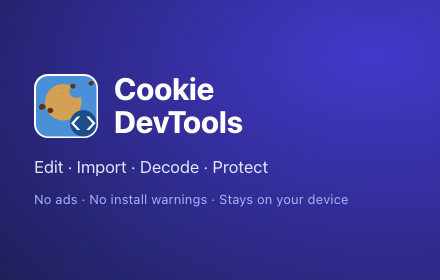
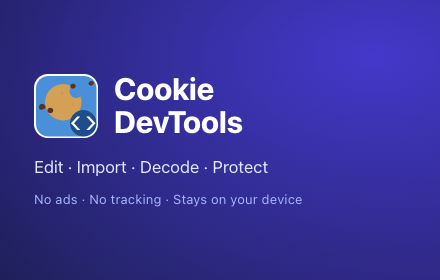
fix: truthful install-warning claims on the listing, README and promo tiles
Chrome shows "Read and change all your data on all websites" for this extension
(measured with chrome.management.getPermissionWarningsByManifest in Chrome for
Testing 151). The listing, README and promo tiles said there was no install warning,
because the earlier measurement read developerPrivate's simplePermissions, which
omits host-permission warnings.

- Copy says what Chrome shows and why a cookie editor needs host access
- Promo tiles regenerated with store/tools
- check-manifest.mjs restated as an allowlist guard; also checks optional
  permissions and forbids content_scripts
- wxt.config.ts records the live no-tabs verification and the measured warnings
- CLAUDE.md records the measurement rule

Changed region(s): [[0.2364, 0.6857, 0.7977, 0.7429]]

diff --git a/wxt.config.ts b/wxt.config.ts
@@ -5,9 +5,9 @@ export default defineConfig({
     name: '__MSG_appName__',
     description: '__MSG_appDescription__',
     default_locale: 'en',
-    // `tabs` deliberately NOT requested (removed 2026-08-26). The only tabs API this
-    // extension calls is browser.tabs.query({active:true,currentWindow:true}) in
-    // entrypoints/popup/main.ts, and it reads exactly one field off the result: tab.url.
+    // `tabs` deliberately NOT requested (removed 2026-08-26). The surfaces call
+    // browser.tabs.query({active:true,currentWindow:true}) and tabs.onActivated/onUpdated, and
+    // the only field they read off a tab is tab.url.
     //
     // Chrome's own reference for the Tabs API, quoted verbatim (fetched 2026-08-26 from
     // developer.chrome.com/docs/extensions/reference/api/tabs):
@@ -25,22 +25,24 @@ export default defineConfig({
     //
     // So tab.url is unlocked twice over here — by `<all_urls>` below, and by `activeTab`
     // when a user has narrowed site access to on-click (opening the popup IS the
-    // invocation). `tabs` bought nothing and cost the "Read your browsing history"
-    // install warning, which is the scariest string in the whole install prompt for an
-    // extension whose entire pitch is that it does not track you.
+    // invocation). `tabs` would buy nothing the extension uses.
     //
-    // NOT verified by running it: the reasoning above is a citation, not a smoke test,
-    // and the two sibling extensions that looked like precedent (devtools-pro,
-    // tailwind-lookup) turned out to read only tab.id, which was never gated. Load the
-    // built extension unpacked and confirm the popup still shows the current domain
-    // before this ships in a release.
+    // Verified by running it (2026-09-15, Chrome for Testing 151, no stubs): with no `tabs`
+    // permission, the popup opened by a real toolbar click (CDP Extensions.triggerAction) and the
+    // side panel opened from its button both list the current site's cookies, and the side panel
+    // follows the tab when it navigates to another origin.
     //
-    // `sidePanel` is added by WXT for entrypoints/sidepanel and raises no install warning.
-    // There is deliberately no DevTools panel: measured 2026-09-15 in Chrome for Testing 151
-    // (chrome.developerPrivate.getExtensionsInfo), a `devtools_page` alone — no permission
-    // requested — makes the install prompt say "Read and change all your data on all
-    // websites". scripts/check-manifest.mjs fails CI if `tabs`, `devtools_page` or any other
-    // permission outside the warning-free set comes back.
+    // Install warnings, measured the same day with chrome.management.getPermissionWarningsByManifest
+    // (never developerPrivate's simplePermissions, which omits host-permission warnings):
+    //   this manifest (WXT adds sidePanel)   "Read and change all your data on all websites"
+    //   plus `tabs` or a `devtools_page`     no extra line
+    //   without host_permissions             no warning; plus `tabs`: "Read your browsing history"
+    // So dropping `tabs` did not shorten today's prompt — the all-sites line already covers tab
+    // URLs — but the extension asks for nothing it does not use. The all-sites line is the price of
+    // reading and writing cookies on any site: chrome.cookies ignores `activeTab` (a toolbar click
+    // on a manifest without host_permissions reveals the tab URL, yet cookies.getAll returns
+    // nothing and cookies.set fails with "No host permissions for cookies").
+    // scripts/check-manifest.mjs fails CI if the permission set grows.
     permissions: ['cookies', 'storage', 'activeTab'],
     host_permissions: ['<all_urls>'],
   },

diff --git a/CLAUDE.md b/CLAUDE.md
@@ -28,8 +28,8 @@ Built with [WXT](https://wxt.dev/) — builds for Chrome (MV3) and Firefox (MV2)
 - **Partitioned (CHIPS) cookies**: `getAll({url})` omits them; `getAll({url, partitionKey: {}})` includes this host's in every partition; `getAll({partitionKey: {topLevelSite}})` returns cookies embedded third parties stored under a site. A first-party partitioned cookie's write URL must be same-site with its top-level site (http:// on a loopback dev server) or Chrome throws — `cookieUrl` handles it. Verified live in Chrome for Testing 151, 2026-09-15.
 - Monitor uses `browser.cookies.onChanged` with cause tracking (explicit, expired, evicted, overwritten). Recording is **off until the user turns it on** (`monitor` in storage), can be scoped to one site, and entries go through `ChangeLogBuffer` — at most one storage write per second, flushes serialised.
 - Delete All confirms with the count; deletes and profile loads return snapshots the popup offers to undo for 10 s.
-- **Surfaces never need `tabs`**: reading `tab.url` from `tabs.query` and `tabs.onUpdated` is covered by the `<all_urls>` host permission. The side panel adds only `sidePanel` (no install warning). Feature-detect `sidePanel`/`sidebarAction` — Firefox gets a `sidebar_action` from the same entrypoint.
-- **No DevTools panel, on purpose**: a `devtools_page` requests no permission but makes Chrome's install prompt say "Read and change all your data on all websites" (measured 2026-09-15; see `wxt.config.ts`). `scripts/check-manifest.mjs` fails CI if it, `tabs` or any other non-allowlisted permission appears.
+- **Surfaces never need `tabs`**: reading `tab.url` from `tabs.query` and `tabs.onUpdated` is covered by the `<all_urls>` host permission. The side panel adds only `sidePanel`. Feature-detect `sidePanel`/`sidebarAction` — Firefox gets a `sidebar_action` from the same entrypoint.
+- **Install warnings — measure, never assume.** Chrome's install prompt shows one line, "Read and change all your data on all websites", from `<all_urls>`; reading and writing cookies on any site needs it. Measure with `chrome.management.getPermissionWarningsByManifest(JSON.stringify(manifest), cb)`, called from any extension page (no `management` permission needed), on the manifest before and after any change. Never use `developerPrivate.getExtensionsInfo().permissions.simplePermissions`: it omits host-permission warnings, and trusting it put a false "no install warnings" claim on the listing (corrected 2026-09-15). Measured 2026-09-15 in Chrome for Testing 151: beside `<all_urls>`, `tabs`, `sidePanel` and `devtools_page` add no line and `clipboardWrite` adds "Modify data you copy and paste"; with no host permissions the prompt is empty, and `tabs` there adds "Read your browsing history". `scripts/check-manifest.mjs` is the CI allowlist guard that stops the permission set growing and keeps `content_scripts` out (the listing says the extension never injects scripts).
 - **Protect / Block** (`rules` in storage): the background enforces them in its `cookies.onChanged` listener. Protect restores the saved state when a site changes or deletes the cookie (it ignores the `overwrite` removal and judges the new value's event); Block removes a named cookie whenever it is set. Every extension write first calls `guard.expect(identity)` so enforcement ignores its own events; restores are capped per cookie (`allowRestore`) and re-checked when the quiet window ends so a page write inside it cannot stick. A user's own edit or import of a protected cookie moves the lock; deleting it on purpose ends the protection.
 - **Keyboard**: `/` focuses search (↓ from search enters the list); in the list ↑/↓/Home/End move a single tab stop, Enter opens the editor, Space selects, Delete/Backspace deletes with undo; ←/→ switch tabs; closing the editor returns focus to its row.
 - The UI listens to `cookies.onChanged` itself for the page it shows: the list refreshes, and the Monitor's **Live** view lists changes in memory only — nothing is stored unless Record is on.
@@ -69,5 +69,5 @@ npm test
 ## Conventions
 - WXT framework with vanilla TypeScript (no UI framework)
 - Version: semver, managed by release-please; the popup and options page read it from the manifest
-- Requires `cookies`, `storage`, `activeTab` and `sidePanel` permissions and `<all_urls>` host permission. None raises an install warning — verified with `developerPrivate.getExtensionsInfo` in Chrome for Testing, and enforced by `scripts/check-manifest.mjs` in CI. `tabs` deliberately dropped 2026-08-26 — see `wxt.config.ts`
+- Requires `cookies`, `storage`, `activeTab` and `sidePanel` permissions and `<all_urls>` host permission. Chrome's install prompt shows one warning for that set, "Read and change all your data on all websites" (measured with `getPermissionWarningsByManifest` — see Key Implementation Details); `scripts/check-manifest.mjs` in CI fails if the set grows. `tabs` deliberately dropped 2026-08-26 — see `wxt.config.ts`
 - Do NOT add Claude/AI as co-author or contributor

diff --git a/README.md b/README.md
@@ -1,6 +1,6 @@
 # Cookie DevTools
 
-Cookie editor and cookie manager for developers: edit safely, import from other tools with a preview, decode JWT/Base64/JSON values, protect and block cookies, watch changes live, and export to JSON, cookies.txt, curl or a Cookie header — in the popup or Chrome's side panel. No ads, no tracking, no install warnings.
+Cookie editor and cookie manager for developers: edit safely, import from other tools with a preview, decode JWT/Base64/JSON values, protect and block cookies, watch changes live, and export to JSON, cookies.txt, curl or a Cookie header — in the popup or Chrome's side panel. No ads, no tracking, and nothing leaves your device.
 
 ## Features
 
@@ -144,7 +144,7 @@ PERFECT FOR
 - Checking third-party and partitioned cookies
 
 PERMISSIONS, PLAINLY
-Cookie DevTools asks only for what a cookie editor needs: access to cookies on the sites you open, local storage for your settings, the address of the active tab, and the side panel. It never reads page content, never injects scripts, and never sends data anywhere.
+When you add Cookie DevTools, Chrome warns that it can "Read and change all your data on all websites". That is how Chrome describes access to every site, and a cookie editor needs it: an extension can read and write a site's cookies only if it has access to that site, and you might be working on any site. Cookie DevTools uses that access only for cookies, and to see which site the active tab is on. It never reads page content, never injects scripts, and never sends data anywhere. Beyond that it asks only for local storage for your settings and for the side panel — not for the tabs permission.
 
 ### Category
 Developer Tools

diff --git a/PRIVACY_POLICY.md b/PRIVACY_POLICY.md
@@ -10,7 +10,7 @@ Cookie DevTools does **not** collect, transmit, or share any user data. All data
 - **storage**: Used to save your preferences, cookie profiles, and change log locally on your device.
 - **activeTab**: Used to detect the current tab's URL so we can show cookies for the site you're viewing. (The broader `tabs` permission was removed — `activeTab` plus the `<all_urls>` host permission already cover this.)
 - **sidePanel**: Shows the same cookie tools in Chrome's side panel. It gives the extension no access to any data.
-- **host_permissions (<all_urls>)**: Required by the chrome.cookies API to access cookies across all domains.
+- **host_permissions (<all_urls>)**: Required by the chrome.cookies API to access cookies across all domains. Chrome shows this at install as "Read and change all your data on all websites". Cookie DevTools uses it only to read and write cookies and to see which site the active tab is on; it never reads page content or injects scripts.
 
 ## Data Storage
 - Cookie profiles are stored locally using `chrome.storage.local`.
